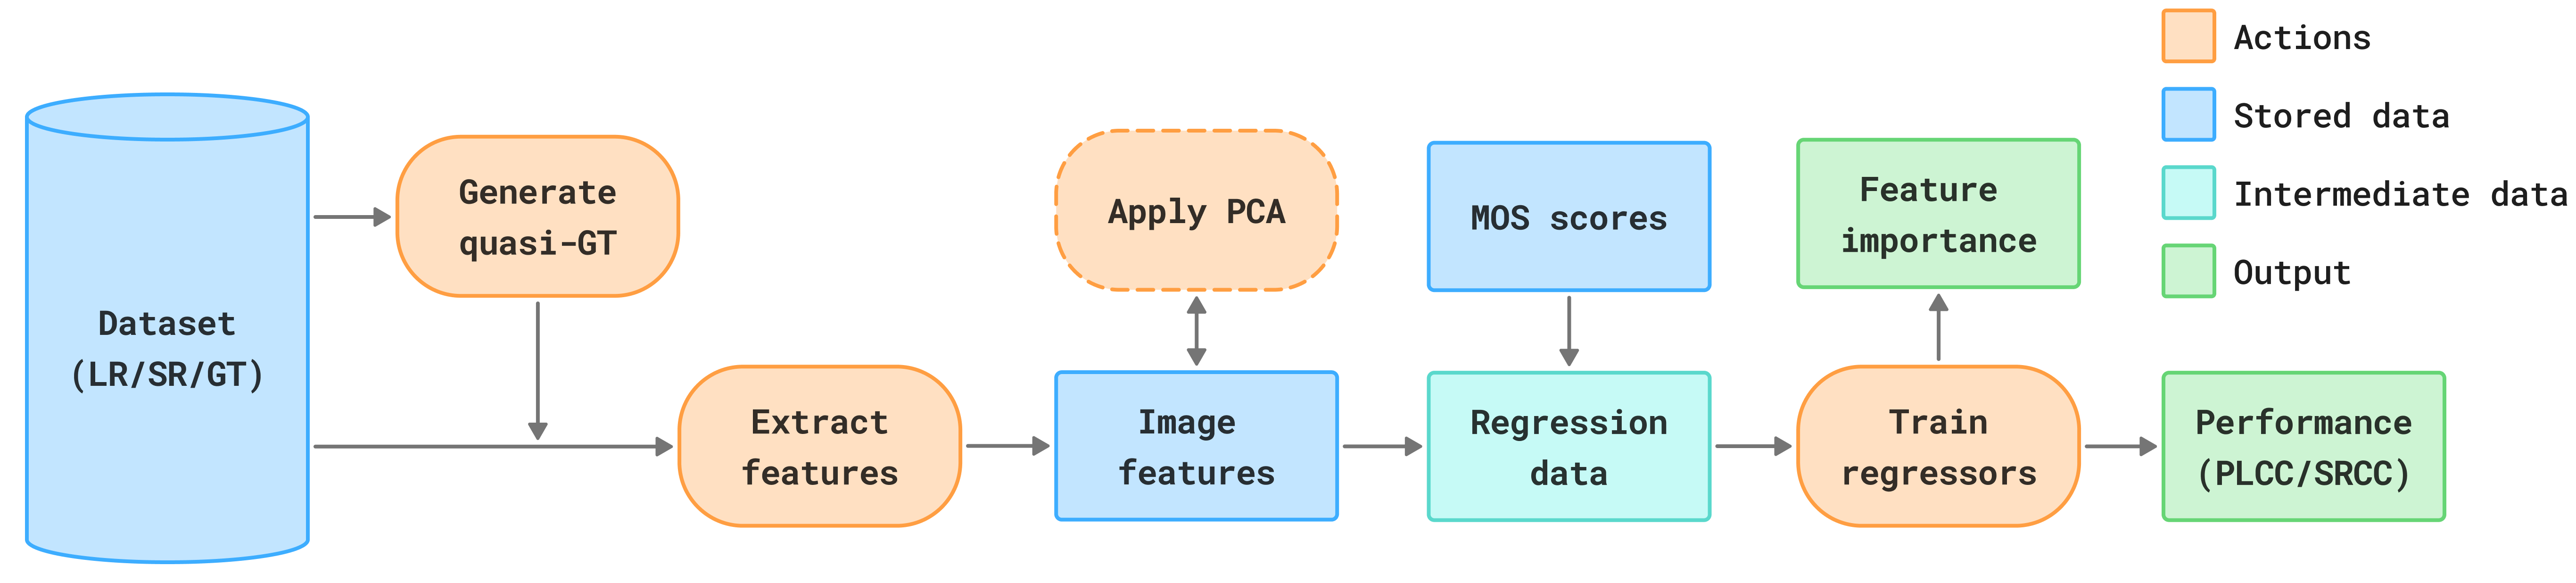
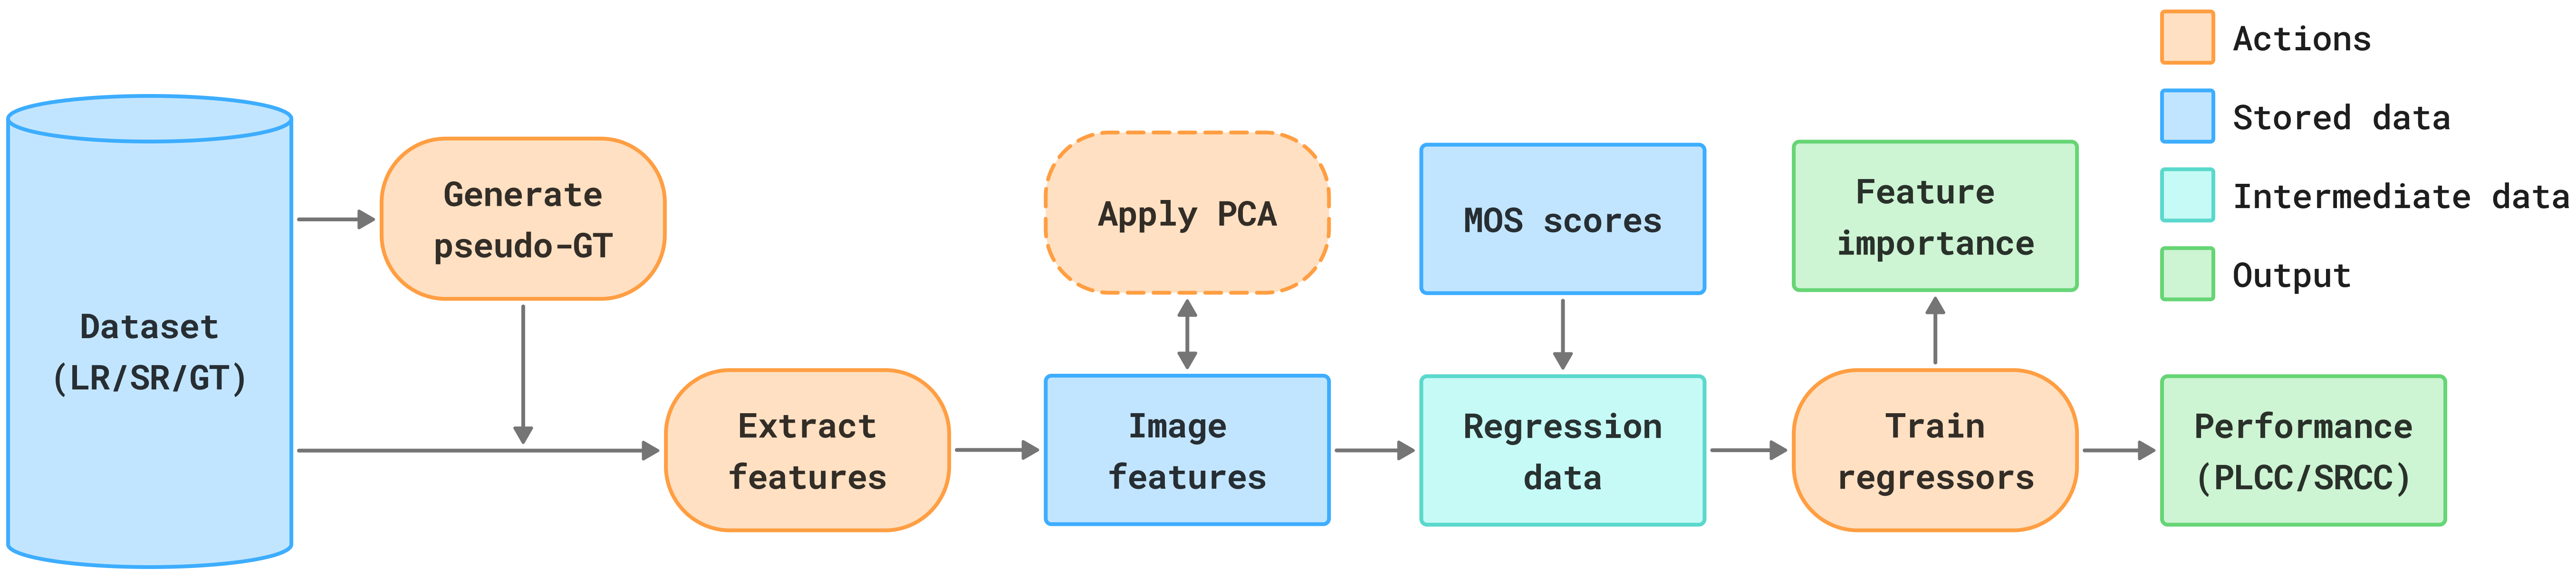
Clarified definitions

diff --git a/README.md b/README.md
@@ -242,7 +242,7 @@ These metrics are computed through the [PyIQA](https://github.com/chaofengc/IQA-
 
 FR metrics are not always ideal for SR-IQA because they assume access to a perfect reference image. Still, they provide useful information about fidelity.
 
-When true GT images are unavailable, the project uses **quasi-GT** references: images obtained by upscaling the LR input with methods that are faithful to the LR image and do not introduce strong hallucinated content.
+When true GT images are unavailable, the project uses **pseudo-GT** references: images obtained by upscaling the LR input with methods that are faithful to the LR image and do not introduce strong hallucinated content.
 
 Reference upscaling methods used here:
 

diff --git a/dataset/readme.md b/dataset/readme.md
@@ -55,7 +55,7 @@ dataset/
 │       └── ...
 └── ref/
     ├── ref_method_1/
-    │   ├── 0000001.png    # Reference (quasi-GT) images, shape: (H, W, 3)
+    │   ├── 0000001.png    # Reference (pseudo-GT) images, shape: (H, W, 3)
     │   └── ...
     ├── ...
     └── ref_method_M/

diff --git a/features/readme.md b/features/readme.md
@@ -70,7 +70,7 @@ QualiSR-Lab is designed to be easy to extend with new feature groups.
     Xiaohua Zhai, Basil Mustafa, Alexander Kolesnikov, Lucas Beyer. 2023.  
     arXiv: https://arxiv.org/abs/2303.15343
 
-### Reference / quasi-GT upscaling methods
+### Reference / pseudo-GT upscaling methods
 
 14. **Swift Parameter-free Attention Network for Efficient Super-Resolution**  
     Cheng Wan, Hongyuan Yu, Zhiqi Li, Yihang Chen, Yajun Zou, Yuqing Liu, Xuanwu Yin, Kunlong Zuo. 2023.  